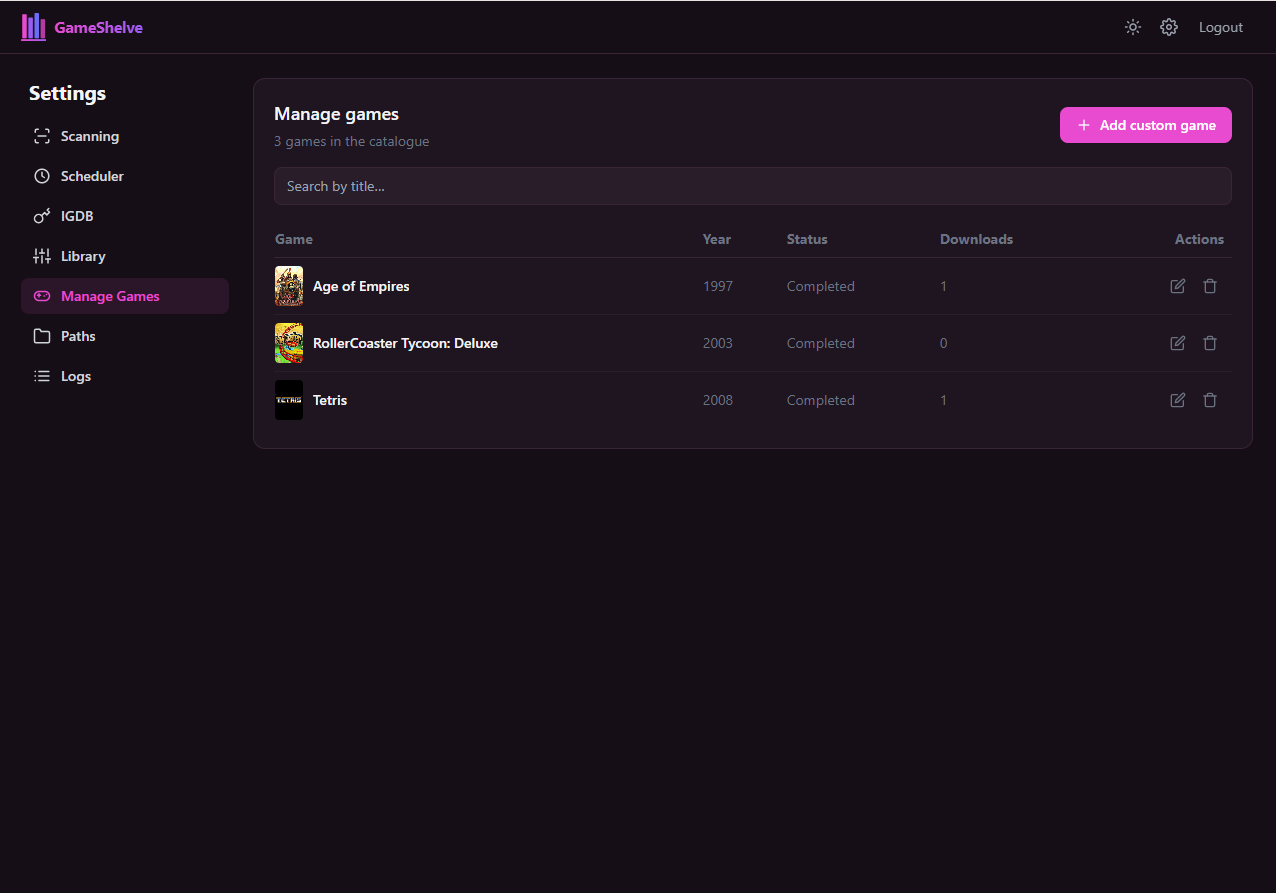
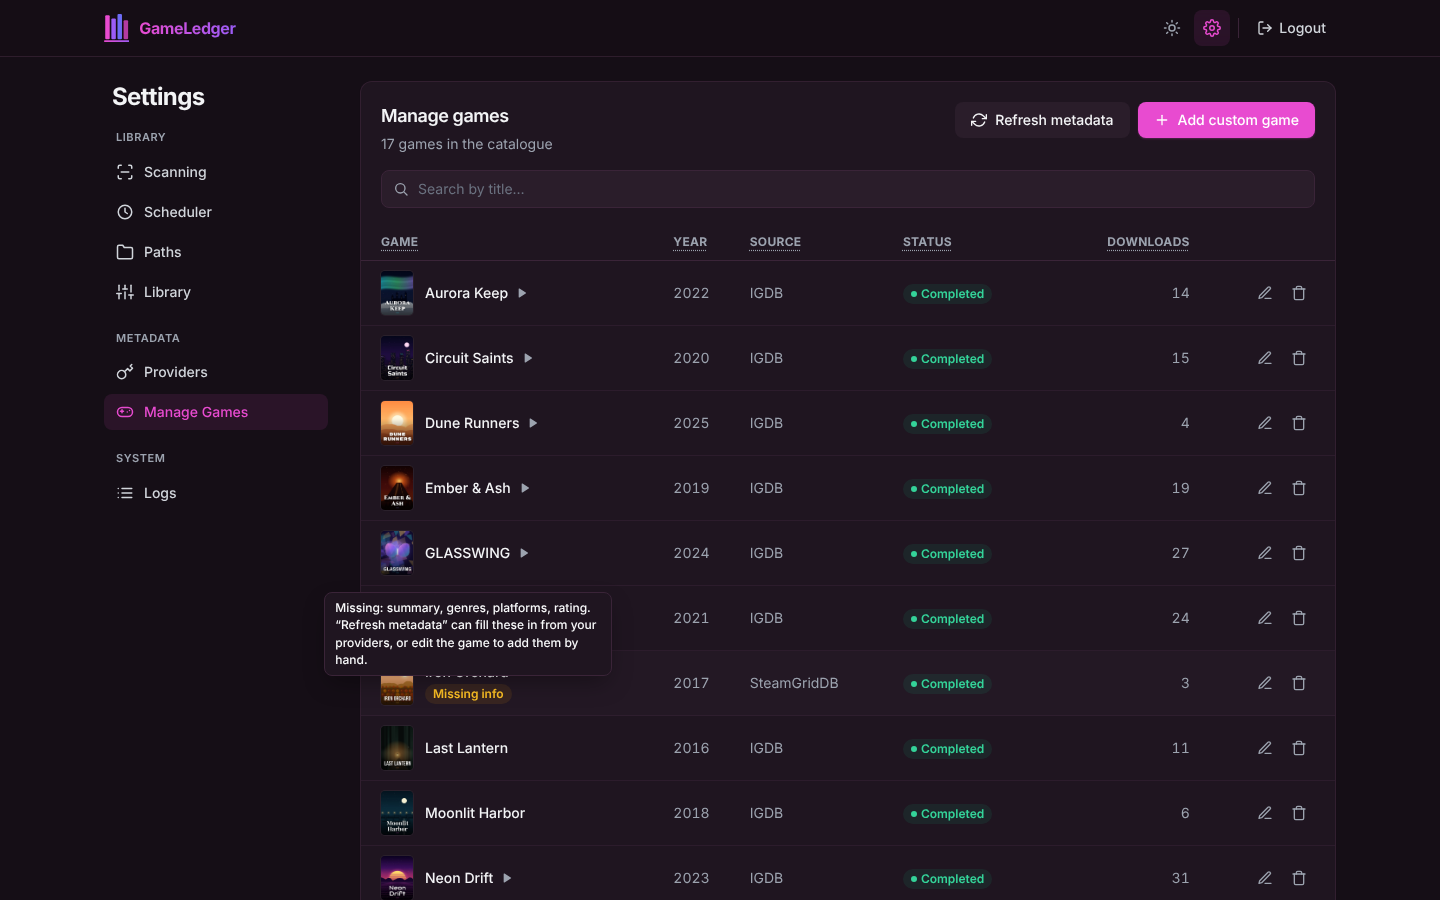
Refresh screenshots and document the new features
- Every screenshot re-captured from the current UI (new logo and name),
  plus new ones for search & filters and the Providers page. The demo
  library is made of fictional games with generated artwork, so the
  images carry no third-party IP.
- README: new feature bullets, SteamGridDB setup and env var, a section
  on GET /api/catalog, MIT badge and licence text. Existing sections and
  style are unchanged apart from the IGDB → Providers rename.
- CHANGELOG: Unreleased section.
- AGENTS.md: metadata service and provider rules, SteamGridDB id
  namespace, compose env forwarding, new endpoints, filters/tooltips.

Fixes #1

Claude-Session: https://claude.ai/code/session_011RQDGraev5Ek1JAFDiWxZG

diff --git a/docs/AGENTS.md b/docs/AGENTS.md
@@ -53,6 +53,14 @@ scheme.
 Consequence: changing metadata or the naming scheme must **never** move or rename
 a physical file. A metadata correction is a cheap operation, not a re-download.
 
+**SteamGridDB-only games** (matched when IGDB isn't configured) need an identity
+too. Their SteamGridDB id is shifted into a reserved range,
+`STEAMGRID_ID_OFFSET + sgdbId` (`services/providerIds.js`, offset 1e9), so the
+`Game.igdbId` column stays a positive, unique, stable integer and every invariant
+above keeps holding; negative ids still mean custom/unmatched. In names the
+`<IGDB_ID>` token renders such ids as `sgdb-<id>`, and `parseFolderName` reads the
+prefix back, so adoption works for them too. Don't add a second identity column.
+
 ## Storage layout (current supersedes the brief)
 
 ⚠ The original brief describes a flat `/storage/games/{igdb_id}.zip` layout. **That
@@ -127,6 +135,37 @@ Critical invariants:
 - Every stage transition is broadcast over `/ws` (global broadcast Phase 1 is
   single-admin, so no per-client targeting).
 
+## Metadata providers (`api/src/services/metadata.js`)
+
+Everything that needs metadata (scanner, refresher, rematch route, correction
+search) talks to the **metadata service**, not to a provider directly. It's built
+from whichever providers are configured and always returns IGDB-shaped data:
+
+- **IGDB only**: identity, metadata and artwork from IGDB (the original setup).
+- **SteamGridDB only** (`services/steamgriddb.js`): identity, title, release year
+  and artwork. SteamGridDB has no summaries, genres, platforms, ratings,
+  screenshots or trailers, so those stay blank ("Missing info").
+- **Both**: IGDB stays identity + metadata; SteamGridDB's best-scored portrait
+  grid and hero are preferred as cover/background via direct
+  `coverUrl`/`backgroundUrl` fields (`processArtwork` tries them first, then
+  falls back to IGDB images). The SteamGridDB game is found by title and must
+  clear `MATCH_THRESHOLD`, since SteamGridDB has no IGDB cross-reference.
+- Neither: matching throws a message pointing at **Settings → Providers**.
+
+`metadataFields(data)` is the single place provider data becomes Game columns,
+including `trailerYoutubeId` (via `pickTrailer`, which only accepts videos named
+like a trailer and rejects teasers/walkthroughs/interviews; no confident match
+means no trailer). The SteamGridDB client reads settings with `findByPk`, not
+`findOrCreate`: its cover/hero lookups run concurrently and SQLite can't run
+`findOrCreate`'s transactions side by side.
+
+Credentials for both providers resolve **DB-first (admin UI), env-fallback**
+(`IGDB_CLIENT_ID`/`IGDB_CLIENT_SECRET`, `STEAMGRIDDB_API_KEY`). Every env var the
+API reads that `.env.example` documents must also be forwarded under the api
+service in `docker-compose.yml` (compose only substitutes `.env` into the compose
+file; containers see nothing that isn't listed). `api/test/compose.test.js`
+enforces this.
+
 ## IGDB integration (`api/src/services/igdb.js`)
 
 - OAuth token (Twitch client-credentials) is **persisted on the `Setting` row**
@@ -139,8 +178,10 @@ Critical invariants:
   saving the typed credentials it now saves first.)
 - `autoMatch()` scores results with a bigram Dice-coefficient `similarity()`;
   nothing clearing `MATCH_THRESHOLD` ⇒ caller marks the game `Unmatched`.
-- **Secrets are never serialised.** `GET /api/settings` exposes only an
-  `igdbConfigured` boolean, true if either source has credentials.
+- **Secrets are never serialised.** `GET /api/settings` exposes only
+  `igdbConfigured`/`steamGridConfigured` booleans plus `igdbSource`/
+  `steamGridSource` (`"settings"`, `"environment"` or null) so the UI can explain
+  why an env-provided key can't be removed there.
 
 ## Auth (Phase 1)
 
@@ -165,10 +206,19 @@ Critical invariants:
   `showRecentlyAdded`, readable without auth so the library page works pre-login).
 - `POST /api/scan` (409 if running), `GET /api/queue` (grouped
   running/pending/failed/completed), `POST /api/queue/:id/retry`,
-  `DELETE /api/queue` (cancel pending).
+  `DELETE /api/queue` (cancel pending), `DELETE /api/queue/:id` (dismiss one
+  finished job; 409 while it's pending/running) and `DELETE /api/queue/failed`
+  (dismiss all failed). Dismissing never touches disk; the source is simply
+  picked up again by the next scan.
 - `GET /api/games`, `GET /api/games/:igdbId`, `GET /api/games/:igdbId/download`.
 - `PATCH /api/games/:igdbId/match` reassign IGDB match (see below).
-- `GET /api/igdb/search?q=` admin-only, feeds the correction modal.
+- `GET /api/providers/search?q=` (alias: `/api/igdb/search`) admin-only, feeds
+  the correction modal; IGDB when configured, else SteamGridDB (with thumbnails).
+- `POST /api/settings/test-igdb`, `POST /api/settings/test-steamgrid` live probes.
+- `GET /api/catalog` (public): every downloadable game with full metadata,
+  download URL and size, for third-party clients (launcher plugins like
+  Playnite). Versioned: bump `CATALOG_VERSION` only when removing or changing the
+  meaning of a field.
 - `POST /api/games/refresh-metadata` (`services/metadataRefresh.js`,
   admin-only, 409 if one is already running): bulk-refreshes catalogued games
   from IGDB. `{ mode: "all" }` unconditionally overwrites metadata and
@@ -217,6 +267,14 @@ this is a cheap rename rather than a re-download.
   navigation (don't re-open a per-view socket).
 - Grid / List / Plain view toggle, persisted in localStorage. Grid scales 2→6
   columns across breakpoints.
+- **Search/sort/filter run client-side** over the whole feed (`lib/libraryFilters.js`;
+  the page fetches every page of `/api/games`). State lives in the URL query.
+  While a search or genre/platform filter is active the rails are hidden.
+- **Tooltips use the `v-tooltip` directive** (`directives/tooltip.js`): one shared
+  element in `<body>` with fixed positioning, so scroll containers never clip it.
+  Prefer it over `title=` for anything a user needs to read.
+- Trailers are a click-to-play facade (`TrailerPlayer.vue`): nothing is requested
+  from YouTube until play is pressed, and the embed uses youtube-nocookie.com.
 - Detail page hero gradient is built from `accentColorPrimary/Secondary` **computed
   once at scan time and stored in the DB** zero per-request work, no client-side
   extraction flash.
@@ -225,7 +283,9 @@ this is a cheap rename rather than a re-download.
 - Navigation is minimal (doc 014): the Library is the default landing page; chrome
   is a small top-right cluster (theme toggle, a cogwheel Settings link shown only
   when logged in, Login/Logout). There is **no standalone Scan route** the scan
-  dashboard lives as a section at the top of Settings.
+  dashboard lives as a section at the top of Settings. Settings categories are
+  grouped (Library / Metadata / System); provider credentials live under
+  Providers (`/admin/providers`; `/admin/igdb` redirects there).
 - A horizontal **"Recently added" rail** sits above the grid, the first of several
   planned library rails; toggled via `Setting.showRecentlyAdded` (default true).
 
@@ -246,7 +306,7 @@ this is a cheap rename rather than a re-download.
 ## Roadmap (not built unless a doc says so)
 
 - **Phase 2:** collections, user accounts, advanced filters, enhanced artwork.
-- **Phase 3:** trailers, analytics, multi-library, TV-optimised UI, download stats.
+- **Phase 3:** analytics, multi-library, TV-optimised UI, download stats (trailers have shipped).
 - Other intended future work: duplicate detection, game statistics, advanced
   search, custom naming schemes.
 

diff --git a/README.md b/README.md
@@ -7,7 +7,7 @@
   Point it at a folder, hit scan, and browse your games in a beautiful web UI like a media server, but for games.
 </p>
 
-[![License: AGPL v3](https://img.shields.io/badge/License-AGPL_v3-e84bd0.svg)](LICENSE)
+[![License: MIT](https://img.shields.io/badge/License-MIT-e84bd0.svg)](LICENSE)
 [![Release](https://img.shields.io/badge/release-v1.0.0-9b5cf6.svg)](../../releases)
 [![Docker images](https://img.shields.io/badge/images-ghcr.io-2496ED?logo=docker&logoColor=white)](../../pkgs/container/gameledger-api)
 [![Built with Vue](https://img.shields.io/badge/web-Vue_3-42b883?logo=vuedotjs&logoColor=white)](https://vuejs.org)
@@ -39,6 +39,10 @@ Self-hosting your game collection shouldn't require a wiki. GameLedger is built 
 - ⬇ **One-click downloads** resumable, with friendly filenames and per-game download counts.
 - 📡 **Live progress** scan and compression progress streams to your browser in real time.
 - 🔒 **Comprehensive Auditing** whatever you, the system or the scheduler does, theres a Logs page under settings that never leaves you lost
+- 🔎 **Search, sort & filter** find any game by name, narrow the library by genre or platform, and sort by release date, name, recently added or most downloaded. Filters live in the URL, so you can bookmark or share a view.
+- 🎬 **Trailers** each game page plays its trailer (picked automatically from IGDB, or pasted by hand from any YouTube link) and has a one-click YouTube search. Nothing loads from YouTube until you press play.
+- 🧩 **IGDB, SteamGridDB, or both** no Twitch account? A free SteamGridDB key alone gets you titles, release years and artwork. Use both and IGDB brings the details while SteamGridDB brings the art.
+- 🔌 **Catalog API** one public endpoint lists every downloadable game with full metadata, ready for launcher plugins (e.g. Playnite), scripts and dashboards.
 
 ## 🖼 Screenshots
 ![Library](https://github.com/dev-nick421/gameledger/blob/main/assets/screenshot_library.PNG?raw=true)
@@ -46,6 +50,8 @@ Self-hosting your game collection shouldn't require a wiki. GameLedger is built 
 ![Scanning](https://github.com/dev-nick421/gameledger/blob/main/assets/screenshot_scanning.PNG?raw=true)
 ![Game Management](https://github.com/dev-nick421/gameledger/blob/main/assets/screenshot_game_management.PNG?raw=true)
 ![Auditing](https://github.com/dev-nick421/gameledger/blob/main/assets/screenshot_auditing.PNG?raw=true)
+![Search & Filters](https://github.com/dev-nick421/gameledger/blob/main/assets/screenshot_library_filters.PNG?raw=true)
+![Providers](https://github.com/dev-nick421/gameledger/blob/main/assets/screenshot_providers.PNG?raw=true)
 
 ## 🚀 Get running in 2 minutes
 
@@ -81,7 +87,7 @@ That's it. Open **http://localhost:8080** in your browser. (Change the port with
 #### First-run walkthrough
 
 1. Click **Login** (top right) and sign in with your `ADMIN_PASSWORD`.
-2. Go to **Settings → IGDB** and paste your free [IGDB API credentials](https://dev.twitch.tv/console/apps) —> needed to fetch cover art and metadata.
+2. Go to **Settings → Providers** and paste your free [IGDB API credentials](https://dev.twitch.tv/console/apps) —> needed to fetch cover art and metadata. Can't get IGDB credentials? A free [SteamGridDB API key](https://www.steamgriddb.com/profile/preferences/api) works too (titles, release years and artwork), and you can use both.
 3. Go to **Settings → Paths**, add your library path (`/games` will be your `LIBRARY_PATH` inside the container), and save.
 4. Open the **Scan** dashboard and hit **Scan Library**. Watch the progress roll in.
 5. Head back to the **Library** and enjoy your collection. 🎉
@@ -99,11 +105,15 @@ Everything is configured through `.env` (see [`.env.example`](.env.example)):
 | `LIBRARY_PATH`                          |    ✅    | `./games` | Host folder mounted as your game library.                                     |
 | `WEB_PORT`                              |          | `8080`    | Host port for the web UI.                                                     |
 | `IMAGE_TAG`                             |          | `latest`  | Pin a specific release, e.g. `v1.0.0`.                                        |
-| `MATCH_THRESHOLD`                       |          | `0.6`     | IGDB auto-match confidence (0–1); below this, games are left _Unmatched_.     |
+| `MATCH_THRESHOLD`                       |          | `0.6`     | Auto-match confidence (0–1); below this, games are left _Unmatched_.          |
 | `IGDB_CLIENT_ID` / `IGDB_CLIENT_SECRET` |          |         | Optional; can also be entered in the UI after first run.                      |
+| `STEAMGRIDDB_API_KEY`                   |          |         | Optional SteamGridDB key (artwork, or full matching without IGDB); also settable in the UI. |
 
 The API runs only inside the Docker network nginx in the web container proxies
 `/api` and `/ws` to it, so there's no extra port to expose or secure.
+
+You need at least one metadata provider (IGDB or SteamGridDB). Credentials saved
+under **Settings → Providers** take precedence over the ones in `.env`.
 
 ## 🗺 How it works
 
@@ -117,6 +127,47 @@ Each game lives in its own folder named from the configurable scheme (default
 `<Game Name> - <Release Year> [<IGDB_ID>]`), with `data/` for the archive and
 `artwork/` for images. Display names are generated at read time, so renaming the
 scheme never moves a file.
+
+When only SteamGridDB is configured, games are matched there instead and their
+folders carry the SteamGridDB id as `[sgdb-<id>]`. With both providers, IGDB stays
+the source of truth for identity and details, and SteamGridDB supplies cover and
+hero art (falling back to IGDB's). Trailers are picked from IGDB only when one is
+clearly *the* trailer; otherwise add one by hand under **Manage Games**.
+
+## 🔌 API for apps & plugins
+
+`GET /api/catalog` returns every downloadable game in one response, no login
+required (like the library itself), so launcher plugins such as
+[Playnite](https://playnite.link), scripts and dashboards can mirror your
+collection. URLs are relative to your GameLedger address.
+
+```jsonc
+{
+  "version": 1,
+  "total": 1,
+  "games": [
+    {
+      "id": "1942",
+      "provider": "igdb",            // "igdb" | "steamgriddb" | "custom"
+      "title": "The Witcher 3: Wild Hunt",
+      "releaseYear": 2015,
+      "summary": "…",
+      "genres": ["Role-playing (RPG)"],
+      "platforms": ["PC (Microsoft Windows)"],
+      "rating": 93,
+      "coverUrl": "/api/artwork/1942/cover.jpg",
+      "backgroundUrl": "/api/artwork/1942/background.jpg",
+      "trailerYoutubeId": "c0i88t0Kacs",
+      "downloadUrl": "/api/games/1942/download",   // resumable (Range requests)
+      "fileName": "The Witcher 3 Wild Hunt - 2015 [1942].zip",
+      "sizeBytes": 52428800000
+    }
+  ]
+}
+```
+
+New fields may be added over time; `version` only changes if an existing field
+is removed or changes meaning.
 
 ## 🧑💻 Local development
 
@@ -165,6 +216,6 @@ GameLedger is a tool for managing and self-hosting **your own, legitimately owne
 
 ## 📄 License
 
-GameLedger is free software under the
-**[GNU Affero General Public License v3.0 or later](LICENSE)**. If you run a
-modified version as a network service, you must offer your users its source.
+GameLedger is free software under the **[MIT License](LICENSE)**. Use it,
+change it and share it, at home or anywhere else; just keep the copyright
+notice.

diff --git a/CHANGELOG.md b/CHANGELOG.md
@@ -3,6 +3,36 @@
 All notable changes to GameLedger are documented here. This project adheres to
 [Semantic Versioning](https://semver.org/).
 
+## [Unreleased]
+
+### Added
+
+- **SteamGridDB** as a metadata provider, on its own or alongside IGDB. The
+  IGDB settings page is now **Settings → Providers** (`/admin/igdb` redirects).
+- **Trailers**: picked automatically from IGDB when one is clearly the trailer,
+  editable from Manage Games, with click-to-play on the game page and a
+  YouTube search button.
+- **Library search, sort and filters** (release date, name, recently added,
+  most downloaded; genre and platform), kept in the URL.
+- **Dismiss failed scan jobs**, one at a time or all at once.
+- **Tooltips** throughout Manage Games, especially on statuses.
+- `GET /api/catalog` for third-party clients such as launcher plugins.
+- Favicon, touch icon and web app manifest.
+
+### Changed
+
+- A UI polish pass across the app (typography, cards, game page, settings
+  navigation, toasts, empty and loading states).
+- Licence changed from AGPL-3.0-or-later to **MIT**.
+- "Fill in missing metadata" also picks up trailers for games that have none.
+
+### Fixed
+
+- `IGDB_CLIENT_ID` / `IGDB_CLIENT_SECRET` (and `TOKEN_REFRESH_WINDOW_MS`) from
+  `.env` were never passed to the API container by `docker-compose.yml`.
+- The library only ever showed the first 100 games.
+- Manage Games sorted titles case-sensitively.
+
 ## [1.0.0] - First public release
 
 First open-source release for homelab self-hosting.
